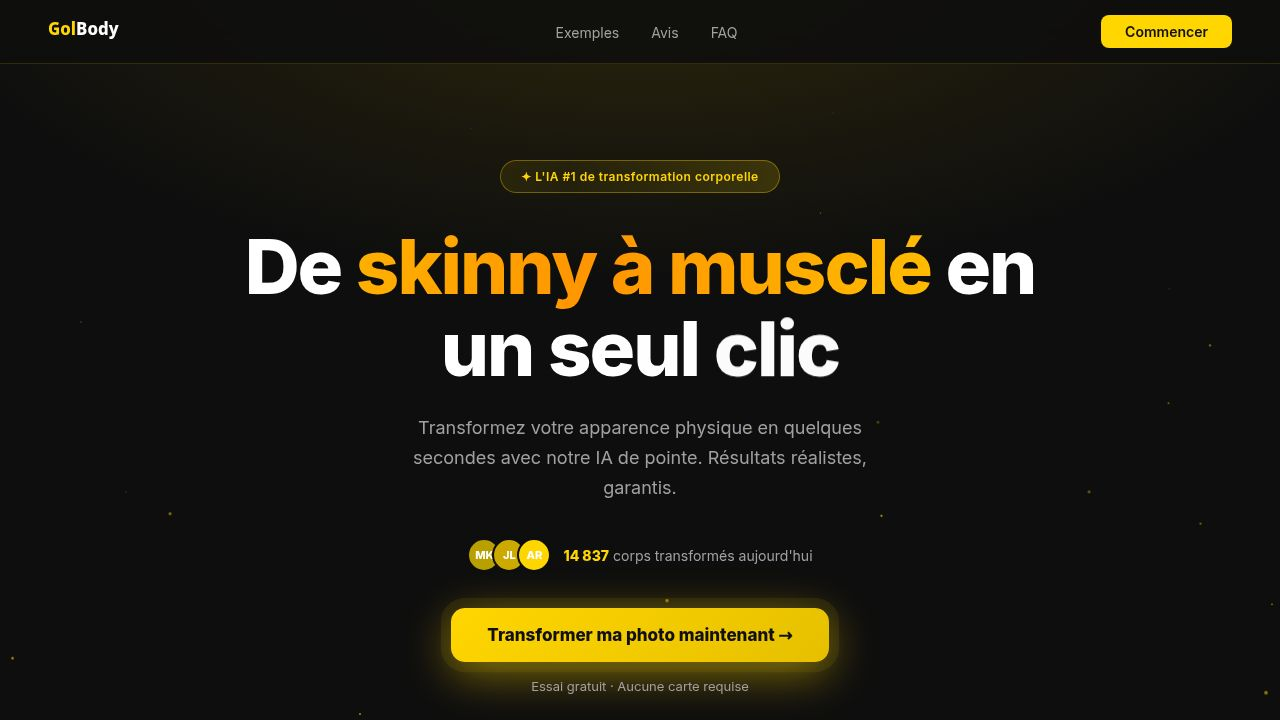
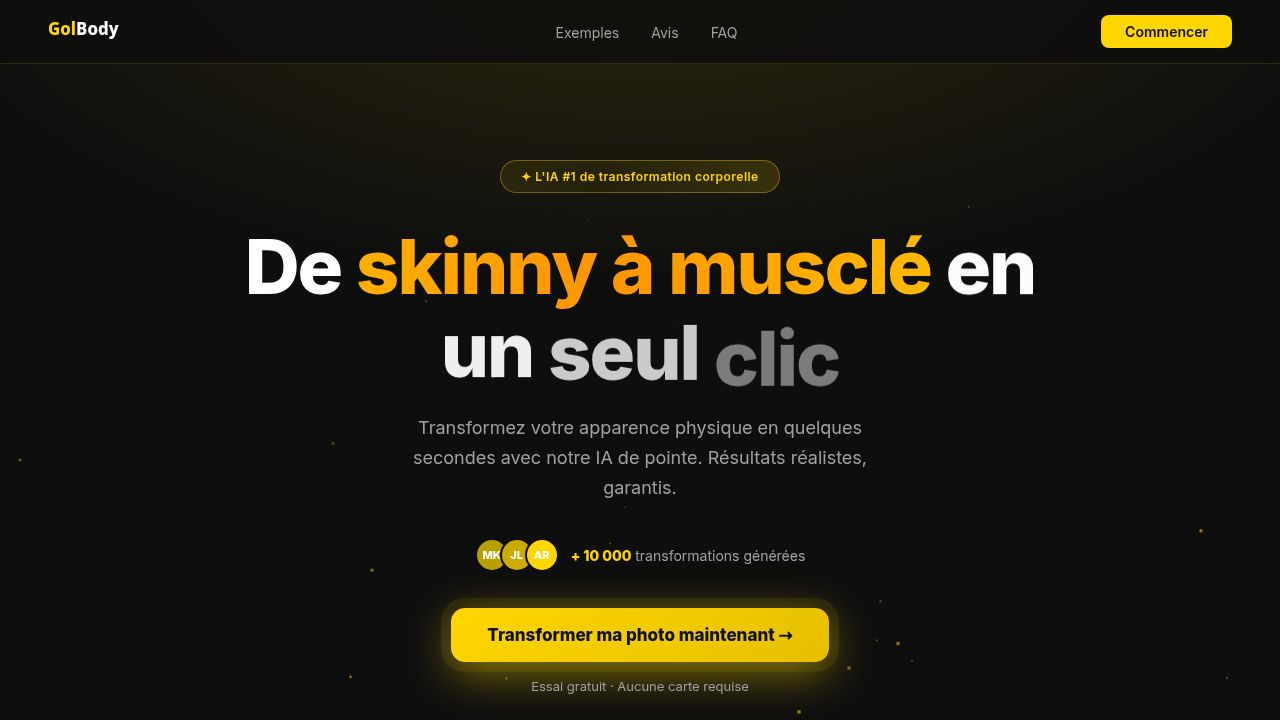
Add an interactive demonstration of the platform's core functionality
Adds a new "DEMO" section to the homepage in `artifacts/golbody/index.html`, featuring an animated canvas that visually simulates the user workflow of uploading, transforming, and downloading files. Includes relevant CSS and JavaScript for the interactive canvas and step indicators.

Replit-Commit-Author: Agent
Replit-Commit-Session-Id: 96f9bed9-dced-4041-853f-623b0e1a2a6a
Replit-Commit-Checkpoint-Type: full_checkpoint
Replit-Commit-Event-Id: 8a0818aa-de6f-4fd8-b9da-4abf43033c25
Replit-Commit-Screenshot-Url: https://storage.googleapis.com/screenshot-production-us-central1/70ea1e66-f4e3-4119-a647-6dda3f76eb00/96f9bed9-dced-4041-853f-623b0e1a2a6a/ciLE5vx
Replit-Helium-Checkpoint-Created: true

Changed region(s): [[0.375, 0.4278, 0.6562, 0.55], [0.3438, 0.7333, 0.625, 0.7944]]

diff --git a/artifacts/golbody/index.html b/artifacts/golbody/index.html
@@ -115,6 +115,16 @@
     .gol-testimonial-name { font-size: 13px; font-weight: 600; color: #fff; }
     .gol-testimonial-detail { font-size: 11px; color: #666; }
 
+    /* VSL */
+    .gol-vsl { padding: 96px 48px; max-width: 1000px; margin: 0 auto; text-align: center; }
+    @media (max-width: 639px) { .gol-vsl { padding: 64px 24px; } }
+    .gol-vsl-badge { display: inline-flex; align-items: center; gap: 8px; padding: 8px 16px; background: rgba(255,214,0,0.1); border: 1px solid rgba(255,214,0,0.25); border-radius: 40px; font-size: 12px; font-weight: 600; color: var(--color-accent); letter-spacing: 0.08em; text-transform: uppercase; margin-bottom: 24px; }
+    .gol-vsl h2 { font-size: 40px; font-weight: 800; color: #fff; margin-bottom: 24px; letter-spacing: -0.5px; }
+    .gol-vsl-steps { display: flex; justify-content: center; gap: 16px; margin-bottom: 24px; flex-wrap: wrap; }
+    .gol-vsl-step { padding: 8px 20px; border-radius: 20px; font-size: 13px; font-weight: 600; color: var(--color-text-muted); border: 1px solid rgba(255,214,0,0.15); background: transparent; transition: all 0.3s; }
+    .gol-vsl-step.active { background: rgba(255,214,0,0.12); border-color: rgba(255,214,0,0.4); color: var(--color-accent); }
+    #vslCanvas { width: 100%; max-width: 900px; height: auto; aspect-ratio: 900/500; border-radius: 16px; border: 1px solid rgba(255,214,0,0.1); background: #0c0c0c; }
+
     /* FAQ */
     .gol-faq { padding: 96px 48px; max-width: 720px; margin: 0 auto; }
     @media (max-width: 639px) { .gol-faq { padding: 64px 24px; } }
@@ -295,6 +305,17 @@
   <div class="gol-testimonials-row"><div class="gol-testimonials-track" id="track2"></div></div>
 </section>
 
+<section class="gol-vsl" id="demo">
+  <div class="gol-vsl-badge reveal">DEMO</div>
+  <h2 class="reveal">Comment ça marche en 11 secondes</h2>
+  <div class="gol-vsl-steps reveal">
+    <span class="gol-vsl-step" id="vstep0">1. Upload</span>
+    <span class="gol-vsl-step" id="vstep1">2. Transformation</span>
+    <span class="gol-vsl-step" id="vstep2">3. Téléchargement</span>
+  </div>
+  <canvas id="vslCanvas" class="reveal"></canvas>
+</section>
+
 <section class="gol-faq" id="faq">
   <div class="gol-faq-header reveal"><div class="gol-faq-badge">FAQ</div><h2>Questions fr&eacute;quentes</h2></div>
   <div class="gol-faq-list">
@@ -442,6 +463,103 @@
   var h2=revs.slice(3).concat(revs.slice(0,3)).map(function(r){return mkCard(r);}).join('');
   document.getElementById('track1').innerHTML=h1+h1;
   document.getElementById('track2').innerHTML=h2+h2;
+
+  // VSL Canvas
+  (function(){
+    var cv=document.getElementById('vslCanvas');if(!cv)return;
+    var ctx=cv.getContext('2d'),dpr=window.devicePixelRatio||1,W=900,H=500;
+    cv.width=W*dpr;cv.height=H*dpr;ctx.scale(dpr,dpr);
+    var bImg=new Image(),aImg=new Image();
+    bImg.src='/public/before_1.jpg';aImg.src='/public/after_1.jpg';
+    var LOOP=11000,T1=2800,T2=5900;
+    var vsteps=[document.getElementById('vstep0'),document.getElementById('vstep1'),document.getElementById('vstep2')];
+    function setVStep(i){vsteps.forEach(function(s,j){if(s)s.classList.toggle('active',i===j);});}
+    function eo(t){return 1-Math.pow(1-t,3);}
+    function eio(t){return t<.5?4*t*t*t:1-Math.pow(-2*t+2,3)/2;}
+    function lerp(a,b,t){return a+(b-a)*t;}
+    function rr(x,y,w,h,r){ctx.beginPath();ctx.moveTo(x+r,y);ctx.lineTo(x+w-r,y);ctx.arcTo(x+w,y,x+w,y+r,r);ctx.lineTo(x+w,y+h-r);ctx.arcTo(x+w,y+h,x+w-r,y+h,r);ctx.lineTo(x+r,y+h);ctx.arcTo(x,y+h,x,y+h-r,r);ctx.lineTo(x,y+r);ctx.arcTo(x,y,x+r,y,r);ctx.closePath();}
+    function cover(img,x,y,w,h){if(!img.complete||!img.naturalWidth)return;var iw=img.naturalWidth,ih=img.naturalHeight,s=Math.max(w/iw,h/ih);ctx.drawImage(img,x+(w-iw*s)/2,y+(h-ih*s)/2,iw*s,ih*s);}
+    function topbar(){ctx.fillStyle='rgba(255,255,255,.04)';ctx.fillRect(0,0,W,44);ctx.fillStyle='rgba(255,214,0,.75)';ctx.font='700 14px Inter,sans-serif';ctx.textAlign='left';ctx.fillText('GolBody',18,29);ctx.fillStyle='rgba(255,255,255,.22)';ctx.font='13px Inter';['Dashboard','Transformer','Galerie'].forEach(function(l,i){ctx.fillText(l,96+i*96,29);});}
+    function pUpload(t){
+      ctx.fillStyle='#0c0c0c';ctx.fillRect(0,0,W,H);topbar();
+      var zx=150,zy=58,zw=600,zh=370;
+      if(t<0.22){
+        ctx.globalAlpha=Math.min(1,t/0.14);
+        ctx.save();ctx.setLineDash([10,7]);ctx.lineWidth=2;ctx.strokeStyle='rgba(255,214,0,.38)';rr(zx,zy,zw,zh,16);ctx.stroke();ctx.restore();
+        ctx.fillStyle='rgba(255,214,0,.025)';rr(zx,zy,zw,zh,16);ctx.fill();
+        var cx=zx+zw/2,cy=zy+zh/2-18;
+        ctx.strokeStyle='rgba(255,214,0,.48)';ctx.lineWidth=2.5;ctx.lineCap='round';ctx.setLineDash([]);
+        ctx.beginPath();ctx.moveTo(cx,cy-28);ctx.lineTo(cx,cy+10);ctx.moveTo(cx-13,cy-13);ctx.lineTo(cx,cy-28);ctx.lineTo(cx+13,cy-13);ctx.stroke();
+        ctx.beginPath();ctx.moveTo(cx-18,cy+20);ctx.lineTo(cx+18,cy+20);ctx.stroke();
+        ctx.font='600 16px Inter';ctx.fillStyle='rgba(255,255,255,.52)';ctx.textAlign='center';ctx.fillText('Glisse ta photo ici',cx,cy+54);
+        ctx.font='13px Inter';ctx.fillStyle='rgba(255,255,255,.22)';ctx.fillText('ou clique pour choisir',cx,cy+76);
+        ctx.globalAlpha=1;
+      } else if(t<0.72){
+        var st=eo((t-0.22)/0.5);
+        ctx.save();ctx.strokeStyle='rgba(255,214,0,'+lerp(0.35,0.72,st)+')';ctx.lineWidth=2;ctx.setLineDash([]);rr(zx,zy,zw,zh,16);ctx.stroke();
+        ctx.beginPath();rr(zx,zy,zw,zh,16);ctx.clip();
+        if(bImg.complete&&bImg.naturalWidth){var iw=bImg.naturalWidth,ih=bImg.naturalHeight,sc=Math.max(zw/iw,zh/ih),dw=iw*sc,dh=ih*sc;ctx.globalAlpha=Math.min(1,st*2.8);ctx.drawImage(bImg,zx+(zw-dw)/2+lerp(50,0,st),zy+(zh-dh)/2,dw,dh);ctx.globalAlpha=1;}
+        ctx.restore();
+      } else {
+        var gt=eo((t-0.72)/0.28);
+        ctx.save();ctx.beginPath();rr(zx,zy,zw,zh,16);ctx.clip();cover(bImg,zx,zy,zw,zh);ctx.restore();
+        ctx.save();ctx.shadowColor='#FFD600';ctx.shadowBlur=lerp(0,24,gt);ctx.strokeStyle='rgba(255,214,0,'+lerp(0.5,1,gt)+')';ctx.lineWidth=2.5;ctx.setLineDash([]);rr(zx,zy,zw,zh,16);ctx.stroke();ctx.restore();
+        ctx.fillStyle='rgba(0,0,0,.65)';rr(zx+10,zy+10,64,24,12);ctx.fill();ctx.fillStyle='#fff';ctx.font='700 11px Inter';ctx.textAlign='center';ctx.fillText('AVANT',zx+42,zy+26);
+        ctx.globalAlpha=gt;ctx.fillStyle='#FFD600';ctx.beginPath();ctx.arc(zx+zw-26,zy+26,22,0,Math.PI*2);ctx.fill();
+        ctx.strokeStyle='#0c0c0c';ctx.lineWidth=3;ctx.lineCap='round';ctx.lineJoin='round';
+        ctx.beginPath();ctx.moveTo(zx+zw-34,zy+26);ctx.lineTo(zx+zw-24,zy+35);ctx.lineTo(zx+zw-14,zy+16);ctx.stroke();ctx.globalAlpha=1;
+      }
+      ctx.fillStyle='rgba(255,214,0,.05)';ctx.fillRect(0,H-48,W,48);
+      ctx.fillStyle='rgba(255,255,255,.22)';ctx.font='600 12px Inter';ctx.textAlign='left';ctx.fillText('Selectionne une photo de corps ci-dessus',24,H-20);
+    }
+    function pProcess(t){
+      ctx.fillStyle='#0c0c0c';ctx.fillRect(0,0,W,H);topbar();
+      var zx=150,zy=58,zw=600,zh=370;
+      ctx.save();ctx.beginPath();rr(zx,zy,zw,zh,16);ctx.clip();cover(bImg,zx,zy,zw,zh);
+      var sp=Math.min(1,t*1.06),sy=zy+sp*zh;
+      ctx.fillStyle='rgba(0,0,0,.3)';ctx.fillRect(zx,zy,zw,sy-zy);
+      ctx.fillStyle='rgba(255,214,0,.1)';
+      for(var gy=zy+9;gy<sy;gy+=18)for(var gx2=zx+9;gx2<zx+zw;gx2+=18){ctx.beginPath();ctx.arc(gx2,gy,1.5,0,Math.PI*2);ctx.fill();}
+      if(sp<0.98){var sg=ctx.createLinearGradient(0,sy-34,0,sy+6);sg.addColorStop(0,'rgba(255,214,0,0)');sg.addColorStop(.7,'rgba(255,214,0,.7)');sg.addColorStop(1,'rgba(255,214,0,0)');ctx.fillStyle=sg;ctx.fillRect(zx,sy-34,zw,40);ctx.fillStyle='rgba(255,214,0,.95)';ctx.fillRect(zx,sy-1.5,zw,3);}
+      ctx.restore();
+      ctx.save();ctx.shadowColor='#FFD600';ctx.shadowBlur=12+Math.sin(t*Math.PI*10)*5;ctx.strokeStyle='rgba(255,214,0,.72)';ctx.lineWidth=2.5;ctx.setLineDash([]);rr(zx,zy,zw,zh,16);ctx.stroke();ctx.restore();
+      ctx.fillStyle='rgba(255,214,0,.05)';ctx.fillRect(0,H-60,W,60);
+      ctx.fillStyle='rgba(255,255,255,.07)';rr(zx,H-38,zw,8,4);ctx.fill();
+      var pct=Math.min(1,t*1.06);
+      ctx.save();ctx.shadowColor='#FFD600';ctx.shadowBlur=10;ctx.fillStyle='#FFD600';rr(zx,H-38,zw*pct,8,4);ctx.fill();ctx.restore();
+      ctx.fillStyle='#FFD600';ctx.font='700 13px Inter';ctx.textAlign='left';ctx.fillText('Transformation IA en cours... '+Math.round(pct*100)+'%',zx,H-48);
+    }
+    function pReveal(t){
+      ctx.fillStyle='#0c0c0c';ctx.fillRect(0,0,W,H);
+      var bh=H-58,rx=W*eio(Math.min(1,t*1.12));
+      ctx.save();ctx.beginPath();ctx.rect(0,0,rx,bh);ctx.clip();cover(aImg,0,0,W,bh);
+      if(rx>80){ctx.globalAlpha=Math.min(1,(rx-20)/90);ctx.fillStyle='rgba(255,214,0,.15)';rr(14,14,76,26,13);ctx.fill();ctx.strokeStyle='rgba(255,214,0,.45)';ctx.lineWidth=1;ctx.setLineDash([]);rr(14,14,76,26,13);ctx.stroke();ctx.fillStyle='#FFD600';ctx.font='700 11px Inter';ctx.textAlign='center';ctx.fillText('APRES',52,31);ctx.globalAlpha=1;}
+      ctx.restore();
+      ctx.save();ctx.beginPath();ctx.rect(rx,0,W-rx,bh);ctx.clip();cover(bImg,0,0,W,bh);
+      if(W-rx>70){var lx=Math.max(rx+14,W-90);ctx.globalAlpha=Math.min(1,(W-rx-20)/90);ctx.fillStyle='rgba(0,0,0,.62)';rr(lx,14,72,26,13);ctx.fill();ctx.fillStyle='#fff';ctx.font='700 11px Inter';ctx.textAlign='center';ctx.fillText('AVANT',lx+36,31);ctx.globalAlpha=1;}
+      ctx.restore();
+      if(t<0.96){ctx.save();ctx.shadowColor='#FFD600';ctx.shadowBlur=22;ctx.strokeStyle='#FFD600';ctx.lineWidth=3;ctx.setLineDash([]);ctx.beginPath();ctx.moveTo(rx,0);ctx.lineTo(rx,bh);ctx.stroke();ctx.beginPath();ctx.arc(rx,bh/2,20,0,Math.PI*2);ctx.fillStyle='#FFD600';ctx.fill();ctx.shadowBlur=0;ctx.fillStyle='#0c0c0c';ctx.font='700 13px Inter';ctx.textAlign='center';ctx.fillText('< >',rx,bh/2+4.5);ctx.restore();}
+      ctx.fillStyle='rgba(0,0,0,.9)';ctx.fillRect(0,bh,W,H-bh);
+      if(t>0.6){
+        var ba=eo((t-0.6)/0.4),bw2=280,bh2=40,bx2=(W-bw2)/2,by2=bh+9;
+        ctx.save();ctx.globalAlpha=ba;ctx.shadowColor='#FFD600';ctx.shadowBlur=ba*28*(0.8+0.2*Math.sin(t*Math.PI*5));
+        ctx.fillStyle='#FFD600';rr(bx2,by2,bw2,bh2,10);ctx.fill();ctx.shadowBlur=0;
+        ctx.fillStyle='#0c0c0c';ctx.font='700 14px Inter';ctx.textAlign='center';ctx.fillText('Telecharger ma transformation',W/2,by2+26);ctx.globalAlpha=1;ctx.restore();
+      } else {
+        ctx.fillStyle='rgba(255,255,255,.28)';ctx.font='13px Inter';ctx.textAlign='center';ctx.fillText('Resultat genere en 9 secondes',W/2,bh+32);
+      }
+    }
+    var vt0=null;
+    function vframe(ts){
+      if(!vt0)vt0=ts;
+      var el=(ts-vt0)%LOOP;
+      if(el<T1){setVStep(0);pUpload(el/T1);}
+      else if(el<T2){setVStep(1);pProcess((el-T1)/(T2-T1));}
+      else{setVStep(2);pReveal((el-T2)/(LOOP-T2));}
+      requestAnimationFrame(vframe);
+    }
+    requestAnimationFrame(vframe);
+  })();
 
   // FAQ
   document.querySelectorAll('.gol-faq-question').forEach(function(btn){btn.addEventListener('click',function(){var item=btn.closest('.gol-faq-item'),open=item.classList.contains('is-open');document.querySelectorAll('.gol-faq-item.is-open').forEach(function(i){i.classList.remove('is-open');i.querySelector('.gol-faq-question').setAttribute('aria-expanded','false');});if(!open){item.classList.add('is-open');btn.setAttribute('aria-expanded','true');}});});